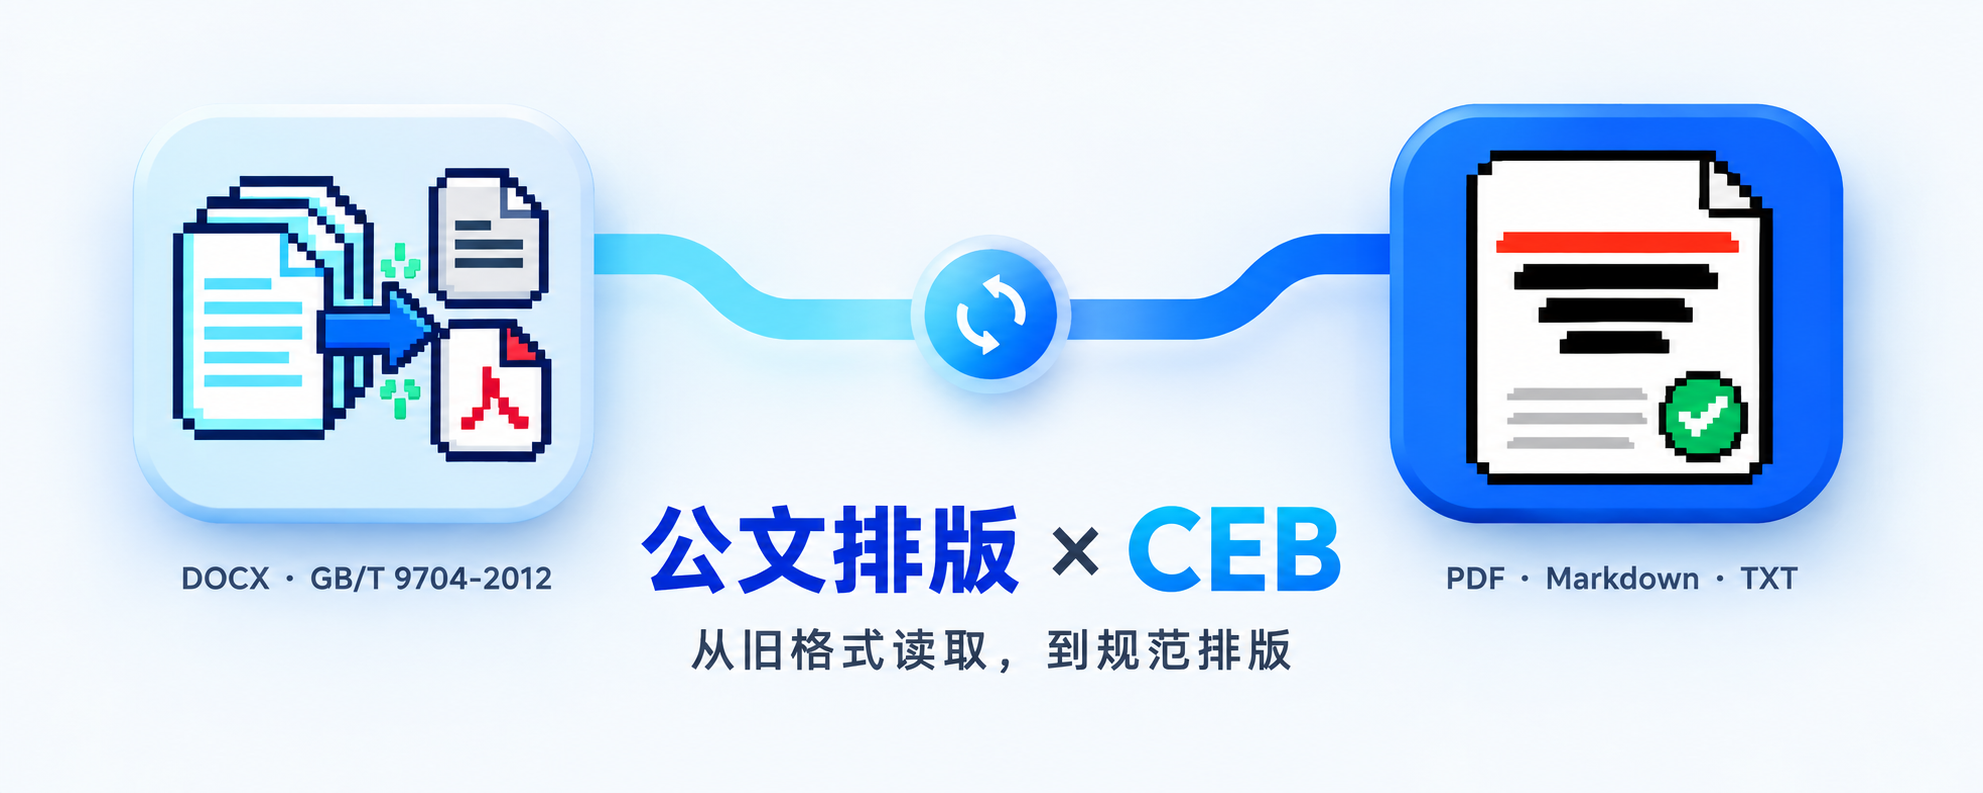
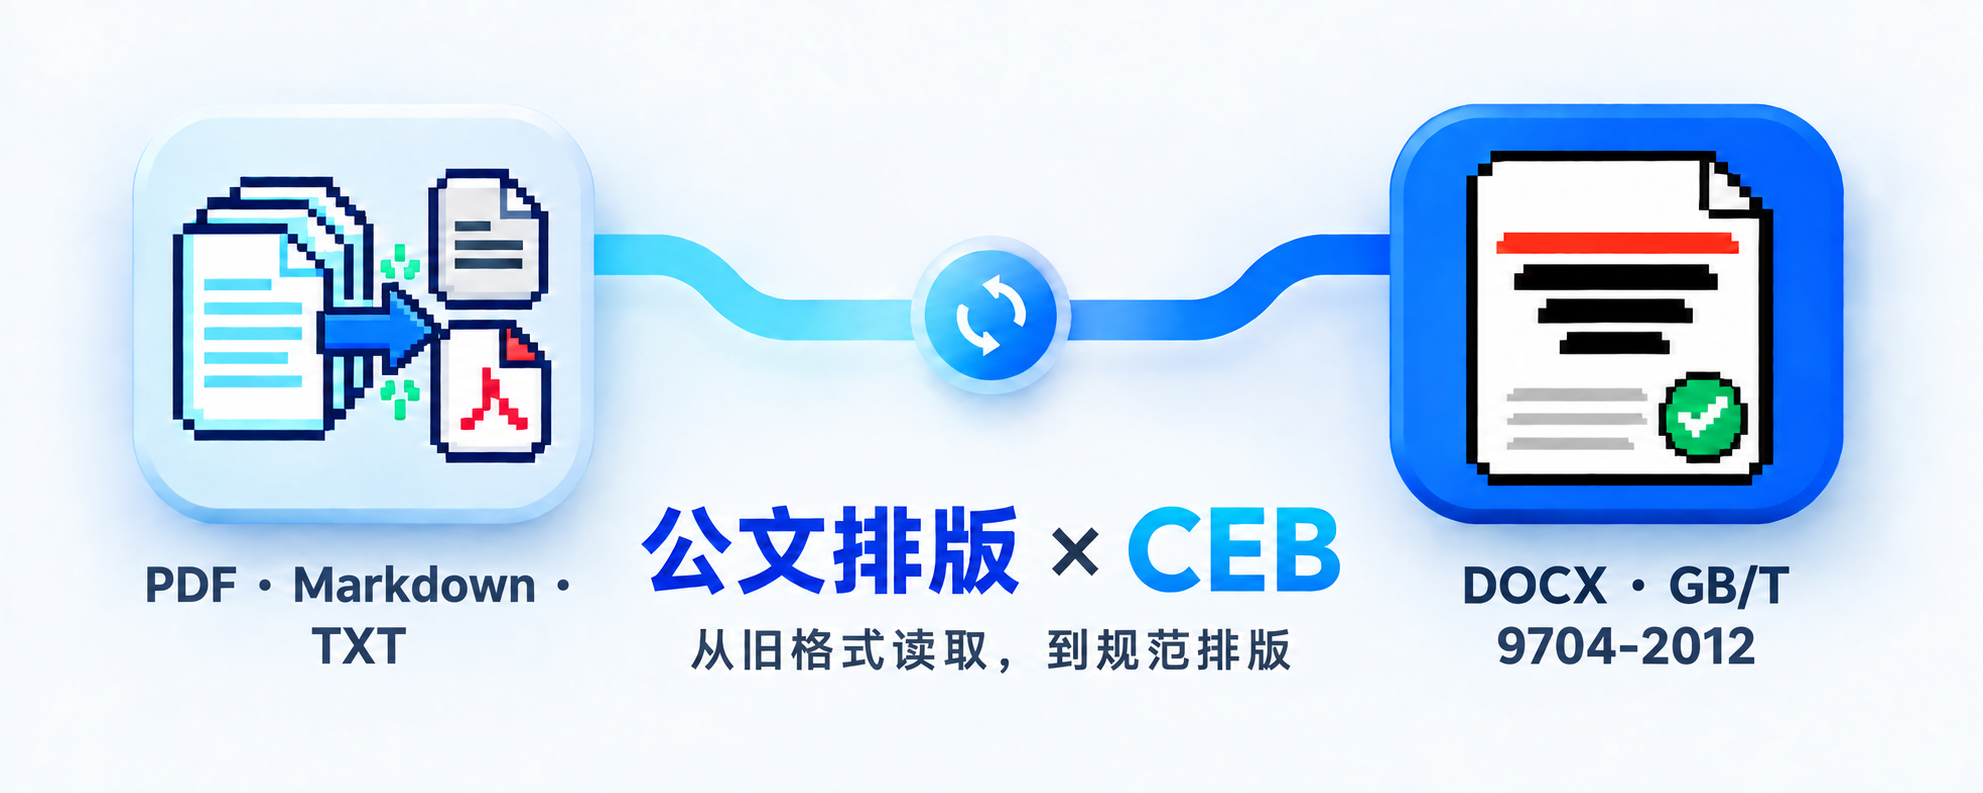
修正 CEB 与公文横幅标签

diff --git a/punk-assets/punk-cover/gongwen-ceb-collaboration/prompts/cover.md b/punk-assets/punk-cover/gongwen-ceb-collaboration/prompts/cover.md
@@ -14,7 +14,8 @@ The cover uses the selected visual style: 品牌协同连接 / brand-collaborati
 - Title hierarchy:
   - A-layer / main visual title: 公文排版 × CEB
   - B-layer / complete meaning: 从旧格式读取，到规范排版
-  - C-layer / small text: DOCX · GB/T 9704-2012  ↔  PDF · Markdown · TXT
+- C-layer / small text: DOCX · GB/T 9704-2012  ↔  PDF · Markdown · TXT
+  - Place “PDF · Markdown · TXT” under the left CEB icon; place “DOCX · GB/T 9704-2012” under the right Gongwen icon.
 - Platform: GitHub README
 - Aspect ratio: 5:2
 - Output dimensions: wide banner, preserve the 5:2 composition; no square crop
@@ -51,6 +52,7 @@ The connector should feel like one stable bridge between legacy-file recovery an
 - Background or space system: light gray-white, nearly flat, subtle cool ambient light, no grid or scenery
 - Foreground/background layering: icons sit slightly above the background with soft controlled depth; connector runs behind the title area and between the icons
 - Reading path: left CEB icon → center node → right Gongwen icon → lower-middle title
+- Label mapping: left CEB icon = PDF · Markdown · TXT; right Gongwen icon = DOCX · GB/T 9704-2012.
 - Shareability constraint: the relationship must read within one second; preserve wide empty margins and avoid tiny text stacks
 
 ## Image-Text Relationship
